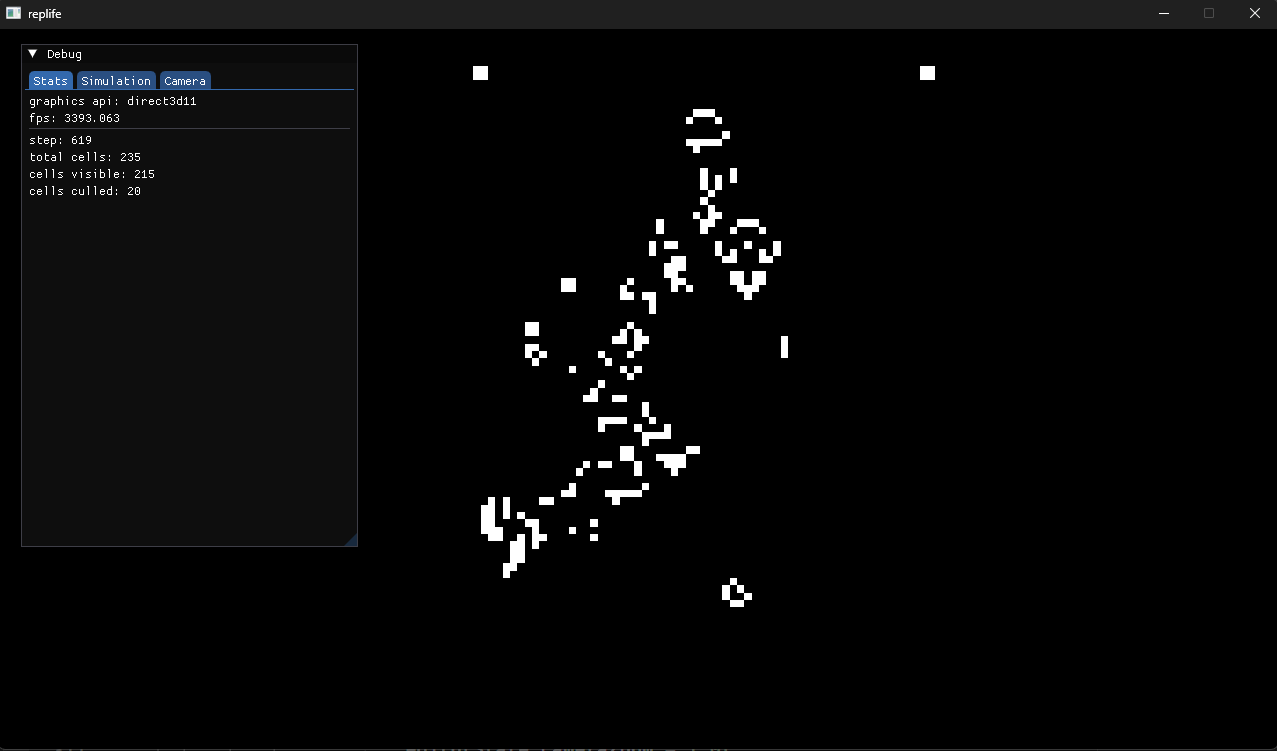
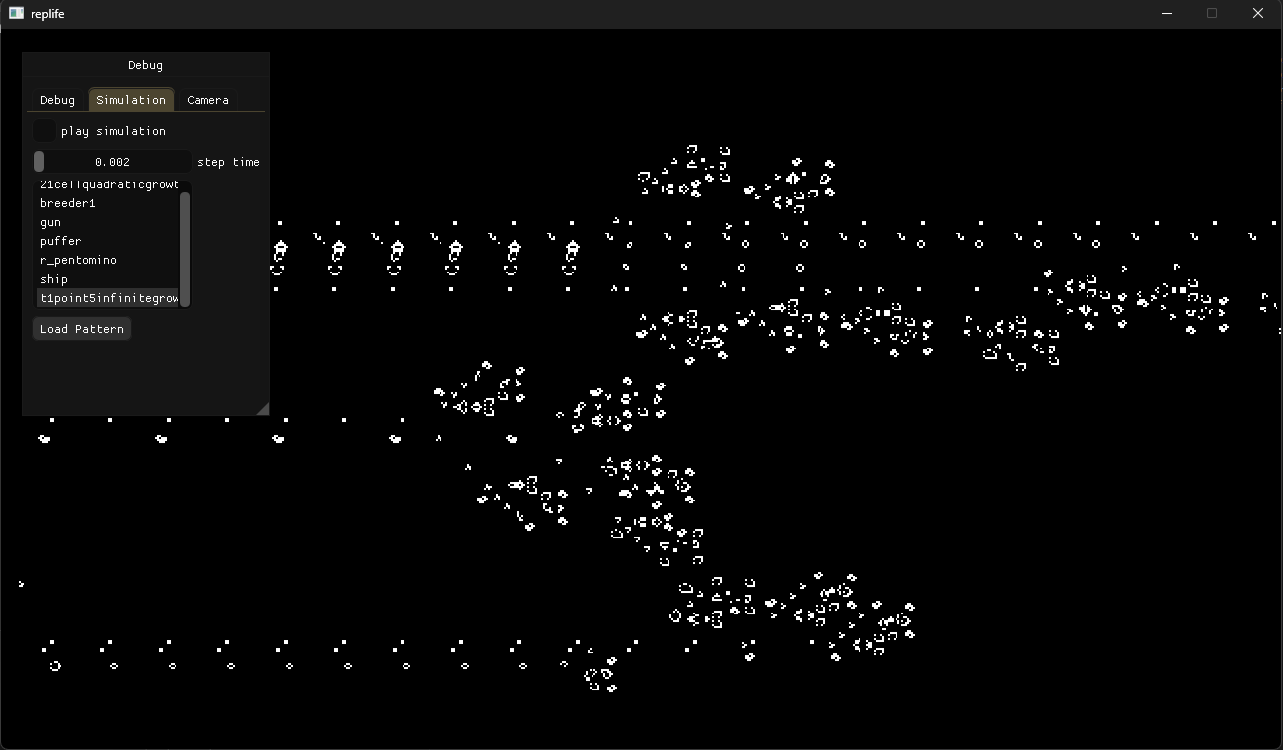
finetuning

diff --git a/src/theme.hpp b/src/theme.hpp
@@ -1,0 +1,90 @@
+
+void init_imgui_theme() {
+    // Excellency style by gonzaloivan121 from ImThemes
+    ImGuiStyle& style = ImGui::GetStyle();
+
+    style.Alpha = 1.0f;
+    style.DisabledAlpha = 0.6f;
+    style.WindowPadding = ImVec2(10.0f, 10.0f);
+    style.WindowRounding = 0.0f;
+    style.WindowBorderSize = 1.0f;
+    style.WindowMinSize = ImVec2(32.0f, 32.0f);
+    style.WindowTitleAlign = ImVec2(0.5f, 0.5f);
+    style.WindowMenuButtonPosition = ImGuiDir_None;
+    style.ChildRounding = 6.0f;
+    style.ChildBorderSize = 1.0f;
+    style.PopupRounding = 6.0f;
+    style.PopupBorderSize = 1.0f;
+    style.FramePadding = ImVec2(8.0f, 6.0f);
+    style.FrameRounding = 6.0f;
+    style.FrameBorderSize = 1.0f;
+    style.ItemSpacing = ImVec2(6.0f, 6.0f);
+    style.ItemInnerSpacing = ImVec2(4.0f, 4.0f);
+    style.CellPadding = ImVec2(4.0f, 2.0f);
+    style.IndentSpacing = 11.0f;
+    style.ColumnsMinSpacing = 6.0f;
+    style.ScrollbarSize = 14.0f;
+    style.ScrollbarRounding = 6.0f;
+    style.GrabMinSize = 10.0f;
+    style.GrabRounding = 6.0f;
+    style.TabRounding = 6.0f;
+    style.TabBorderSize = 1.0f;
+    style.TabMinWidthBase = 0.0f;
+    style.ColorButtonPosition = ImGuiDir_Right;
+    style.ButtonTextAlign = ImVec2(0.5f, 0.5f);
+    style.SelectableTextAlign = ImVec2(0.0f, 0.0f);
+
+    style.Colors[ImGuiCol_Text] = ImVec4(1.0f, 1.0f, 1.0f, 1.0f);
+    style.Colors[ImGuiCol_TextDisabled] = ImVec4(0.5019608f, 0.5019608f, 0.5019608f, 1.0f);
+    style.Colors[ImGuiCol_WindowBg] = ImVec4(0.08235294f, 0.08235294f, 0.08235294f, 1.0f);
+    style.Colors[ImGuiCol_ChildBg] = ImVec4(0.15686275f, 0.15686275f, 0.15686275f, 1.0f);
+    style.Colors[ImGuiCol_PopupBg] = ImVec4(0.19607843f, 0.19607843f, 0.19607843f, 1.0f);
+    style.Colors[ImGuiCol_Border] = ImVec4(0.101960786f, 0.101960786f, 0.101960786f, 1.0f);
+    style.Colors[ImGuiCol_BorderShadow] = ImVec4(0.0f, 0.0f, 0.0f, 0.0f);
+    style.Colors[ImGuiCol_FrameBg] = ImVec4(0.05882353f, 0.05882353f, 0.05882353f, 1.0f);
+    style.Colors[ImGuiCol_FrameBgHovered] = ImVec4(0.09019608f, 0.09019608f, 0.09019608f, 1.0f);
+    style.Colors[ImGuiCol_FrameBgActive] = ImVec4(0.05882353f, 0.05882353f, 0.05882353f, 1.0f);
+    style.Colors[ImGuiCol_TitleBg] = ImVec4(0.08235294f, 0.08235294f, 0.08235294f, 1.0f);
+    style.Colors[ImGuiCol_TitleBgActive] = ImVec4(0.08235294f, 0.08235294f, 0.08235294f, 1.0f);
+    style.Colors[ImGuiCol_TitleBgCollapsed] = ImVec4(0.15294118f, 0.15294118f, 0.15294118f, 1.0f);
+    style.Colors[ImGuiCol_MenuBarBg] = ImVec4(0.0f, 0.0f, 0.0f, 0.0f);
+    style.Colors[ImGuiCol_ScrollbarBg] = ImVec4(0.019607844f, 0.019607844f, 0.019607844f, 0.53f);
+    style.Colors[ImGuiCol_ScrollbarGrab] = ImVec4(0.30980393f, 0.30980393f, 0.30980393f, 1.0f);
+    style.Colors[ImGuiCol_ScrollbarGrabHovered] = ImVec4(0.4117647f, 0.4117647f, 0.4117647f, 1.0f);
+    style.Colors[ImGuiCol_ScrollbarGrabActive] = ImVec4(0.50980395f, 0.50980395f, 0.50980395f, 1.0f);
+    style.Colors[ImGuiCol_CheckMark] = ImVec4(0.7529412f, 0.7529412f, 0.7529412f, 1.0f);
+    style.Colors[ImGuiCol_SliderGrab] = ImVec4(0.50980395f, 0.50980395f, 0.50980395f, 0.7f);
+    style.Colors[ImGuiCol_SliderGrabActive] = ImVec4(0.65882355f, 0.65882355f, 0.65882355f, 1.0f);
+    style.Colors[ImGuiCol_Button] = ImVec4(0.21960784f, 0.21960784f, 0.21960784f, 0.784f);
+    style.Colors[ImGuiCol_ButtonHovered] = ImVec4(0.27450982f, 0.27450982f, 0.27450982f, 1.0f);
+    style.Colors[ImGuiCol_ButtonActive] = ImVec4(0.21960784f, 0.21960784f, 0.21960784f, 0.588f);
+    style.Colors[ImGuiCol_Header] = ImVec4(0.18431373f, 0.18431373f, 0.18431373f, 1.0f);
+    style.Colors[ImGuiCol_HeaderHovered] = ImVec4(0.18431373f, 0.18431373f, 0.18431373f, 1.0f);
+    style.Colors[ImGuiCol_HeaderActive] = ImVec4(0.18431373f, 0.18431373f, 0.18431373f, 1.0f);
+    style.Colors[ImGuiCol_Separator] = ImVec4(0.101960786f, 0.101960786f, 0.101960786f, 1.0f);
+    style.Colors[ImGuiCol_SeparatorHovered] = ImVec4(0.15294118f, 0.7254902f, 0.9490196f, 0.588f);
+    style.Colors[ImGuiCol_SeparatorActive] = ImVec4(0.15294118f, 0.7254902f, 0.9490196f, 1.0f);
+    style.Colors[ImGuiCol_ResizeGrip] = ImVec4(0.9098039f, 0.9098039f, 0.9098039f, 0.25f);
+    style.Colors[ImGuiCol_ResizeGripHovered] = ImVec4(0.8117647f, 0.8117647f, 0.8117647f, 0.67f);
+    style.Colors[ImGuiCol_ResizeGripActive] = ImVec4(0.45882353f, 0.45882353f, 0.45882353f, 0.95f);
+    style.Colors[ImGuiCol_Tab] = ImVec4(0.08235294f, 0.08235294f, 0.08235294f, 1.0f);
+    style.Colors[ImGuiCol_TabHovered] = ImVec4(1.0f, 0.88235295f, 0.5294118f, 0.118f);
+    style.Colors[ImGuiCol_TabActive] = ImVec4(1.0f, 0.88235295f, 0.5294118f, 0.235f);
+    style.Colors[ImGuiCol_TabUnfocused] = ImVec4(0.08235294f, 0.08235294f, 0.08235294f, 1.0f);
+    style.Colors[ImGuiCol_TabUnfocusedActive] = ImVec4(1.0f, 0.88235295f, 0.5294118f, 0.118f);
+    style.Colors[ImGuiCol_PlotLines] = ImVec4(0.6117647f, 0.6117647f, 0.6117647f, 1.0f);
+    style.Colors[ImGuiCol_PlotLinesHovered] = ImVec4(1.0f, 0.43137255f, 0.34901962f, 1.0f);
+    style.Colors[ImGuiCol_PlotHistogram] = ImVec4(0.9019608f, 0.7019608f, 0.0f, 1.0f);
+    style.Colors[ImGuiCol_PlotHistogramHovered] = ImVec4(1.0f, 0.6f, 0.0f, 1.0f);
+    style.Colors[ImGuiCol_TableHeaderBg] = ImVec4(0.18431373f, 0.18431373f, 0.18431373f, 1.0f);
+    style.Colors[ImGuiCol_TableBorderStrong] = ImVec4(0.30980393f, 0.30980393f, 0.34901962f, 1.0f);
+    style.Colors[ImGuiCol_TableBorderLight] = ImVec4(0.101960786f, 0.101960786f, 0.101960786f, 1.0f);
+    style.Colors[ImGuiCol_TableRowBg] = ImVec4(0.0f, 0.0f, 0.0f, 0.0f);
+    style.Colors[ImGuiCol_TableRowBgAlt] = ImVec4(1.0f, 1.0f, 1.0f, 0.06f);
+    style.Colors[ImGuiCol_TextSelectedBg] = ImVec4(0.15294118f, 0.7254902f, 0.9490196f, 0.35f);
+    style.Colors[ImGuiCol_DragDropTarget] = ImVec4(1.0f, 1.0f, 0.0f, 0.9f);
+    style.Colors[ImGuiCol_NavHighlight] = ImVec4(0.15294118f, 0.7254902f, 0.9490196f, 0.8f);
+    style.Colors[ImGuiCol_NavWindowingHighlight] = ImVec4(1.0f, 1.0f, 1.0f, 0.7f);
+    style.Colors[ImGuiCol_NavWindowingDimBg] = ImVec4(0.8f, 0.8f, 0.8f, 0.2f);
+    style.Colors[ImGuiCol_ModalWindowDimBg] = ImVec4(0.8f, 0.8f, 0.8f, 0.35f);
+}

diff --git a/src/main.cpp b/src/main.cpp
@@ -12,6 +12,7 @@
 #include <thread>
 #include "types.hpp"
 #include "SimWorker.hpp"
+#include "theme.hpp"
 
 namespace fs = std::filesystem;
 
@@ -71,7 +72,7 @@ int main() {
     ImGuiIO& io = ImGui::GetIO();
     io.ConfigFlags |= ImGuiConfigFlags_NavEnableKeyboard;
 
-    ImGui::StyleColorsDark();
+    init_imgui_theme();
 
     ImGui_ImplSDL3_InitForSDLRenderer(appState.window, appState.renderer);
     ImGui_ImplSDLRenderer3_Init(appState.renderer);
@@ -264,15 +265,6 @@ void draw_imgui() {
                 ImGui::SetTooltip("time taken (in seconds) to complete 1 step of conway's game of life.");
             }
 
-            ImGui::InputInt("step", &editorState.step, 1, 100, 0);
-            ImGui::SameLine();
-            if (ImGui::Button("Goto")) {
-                // TODO: jump simulation to editorState.step
-            }
-            if (ImGui::IsItemHovered()) {
-                ImGui::SetTooltip("goto a specific step");
-            }
-
             if (!patternFiles.empty()) {
                 // Build a list of display names (filename without extension), only once per frame
                 std::vector<std::string> names;
@@ -293,10 +285,9 @@ void draw_imgui() {
                 if (ImGui::Button("Load Pattern")) {
                     simWorker.waitForWork();
 
-                    gameState.cells.clear();
-                    gameState.accumulator = 0.0;
-                    gameState.isPlaying = false;
-                    editorState.step = 0;
+                    gameState = GameState();
+                    stepScratch = StepScratch();
+
                     load_pattern(patternFiles[editorState.selectedPatternIndex]);
                     populate_step_scratch();
                 }
